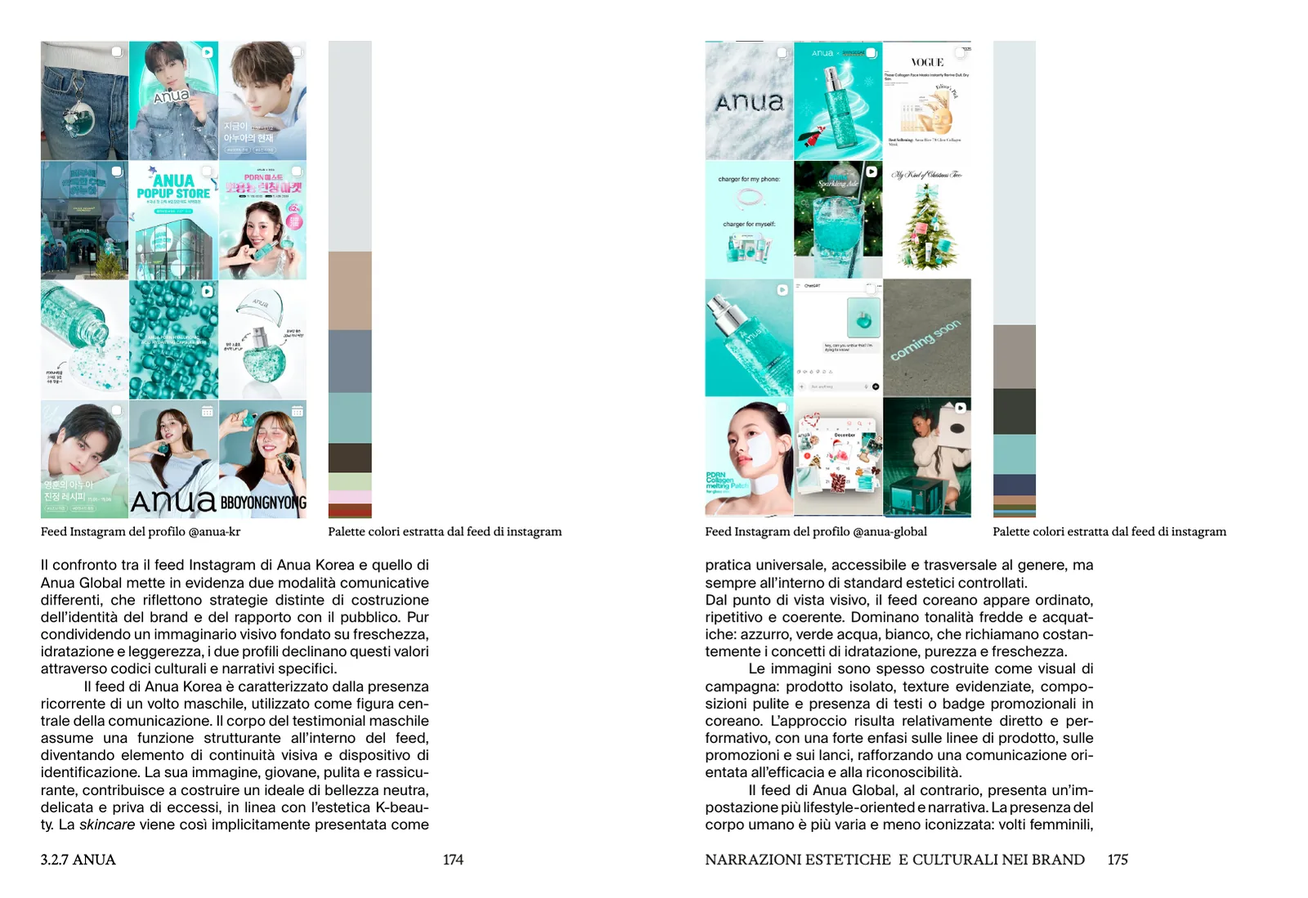
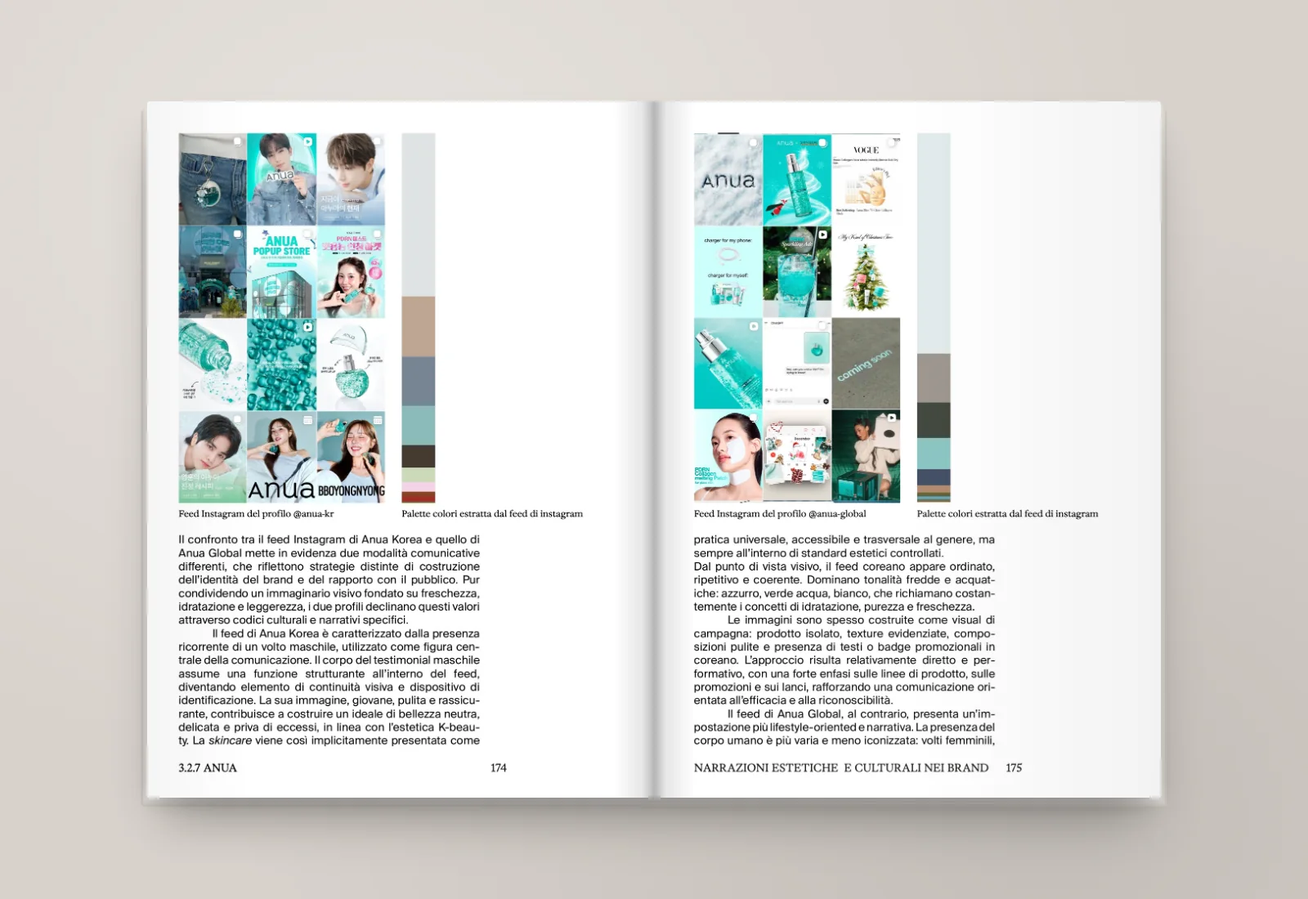
Rinomina il progetto in Framing Beauty e aggiungi i mockup della tesi
Claude-Session: https://claude.ai/code/session_01NjsWzSsnHUPn9xdM7FvZeQ

diff --git a/index.html b/index.html
@@ -26,7 +26,7 @@
   <nav class="index" aria-label="Sections">
     <ul>
       <li><a href="#about"><span class="n">About</span></a></li>
-<li><a href="#narrating-beauty"><span class="n">Narrating Beauty</span><span class="y">2026</span></a></li>
+<li><a href="#framing-beauty"><span class="n">Framing Beauty</span><span class="y">2026</span></a></li>
 <li><a href="#brand-design"><span class="n">Brand Design</span><span class="y">2025–2026</span></a></li>
 <li><a href="#social-campaigns"><span class="n">Social Campaigns</span><span class="y">2025</span></a></li>
 <li><a href="#tree-of-heaven-or-hell"><span class="n">Tree of Heaven or Hell?</span><span class="y">2025</span></a></li>
@@ -39,7 +39,7 @@
   </nav>
   <main>
 <section id="about" class="block" aria-labelledby="about-t"><div class="section-title"><h2 id="about-t">About</h2><span>Beatrice Tronconi</span></div><div class="row"><div class="inner"><h3 class="label">DOWNLOAD CV</h3><div class="content"><p><a href="Tronconi_CV.pdf?v=4" download>Download PDF</a></p></div></div></div><div class="row"><div class="inner"><h3 class="label">PROFILE</h3><div class="content"><p class="text hl"><span class="kw">Communication Designer</span> with a Master’s degree in Communication Design from <span class="kw">Politecnico di Milano</span> and experience in <span class="kw">digital communication</span>, <span class="kw">social media</span> and <span class="kw">brand design</span>. Skilled in creating <span class="kw">visual and dynamic content</span> for digital channels, developing communication concepts and ensuring consistency with <span class="kw">brand identity</span>. Curious about digital trends, audience behaviours and <span class="kw">storytelling</span>, with a strong attention to aesthetics, <span class="kw">detail</span> and visual communication. Collaborative, organised and proactive, with experience managing <span class="kw">multiple projects</span> and deadlines.</p></div></div></div><div class="row"><div class="inner"><h3 class="label">RESIDENCY</h3><div class="content"><p>Currently in Gallarate (VA), Italy, available to relocate</p></div></div></div><div class="row"><div class="inner"><h3 class="label">EXPERIENCE</h3><div class="content"><div class="entries"><div class="entry"><span>Junior brand designer</span><span>Career Service, Politecnico di Milano</span><span>11/2025 – present</span><p class="entry-text hl">Independently design and develop <span class="kw">visual content and layouts</span> for <span class="kw">digital and print</span> communication targeting <span class="kw">student and corporate audiences</span>, ensuring consistency with <span class="kw">brand identity</span> guidelines. Collaborate with <span class="kw">cross-functional teams</span> and stakeholders to translate communication briefs into effective visual solutions across different formats and channels. Take ownership of projects from <span class="kw">concept development</span> and content production through to <span class="kw">final delivery</span>, meeting deadlines and communication objectives.</p></div><div class="entry"><span>Digital graphic designer</span><span>Les Ramè agency</span><span>01/2025 – 04/2025</span><p class="entry-text hl">Produce visual content for <span class="kw">Instagram, LinkedIn and TikTok</span> for <span class="kw">multiple clients</span> and the agency’s own channels, ensuring consistent and engaging digital communication. Interpret <span class="kw">creative briefs</span> and adapt content to <span class="kw">different platforms</span>, clients and audiences, maintaining visual consistency and <span class="kw">attention to detail</span> across multiple projects.</p></div><div class="entry"><span>Social media manager</span><span>Politecnico di Milano</span><span>07/2024 – 05/2025</span><p class="entry-text hl">Manage <span class="kw">Instagram</span> accounts for <span class="kw"><a href="https://www.instagram.com/school.design.polimi/" target="_blank" rel="noopener">School of Design</a></span> and <span class="kw"><a href="https://www.instagram.com/interdependence.polimi/" target="_blank" rel="noopener">Interdependence 2025</a></span> project, planning and executing digital content to increase <span class="kw">engagement</span> and <span class="kw">audience reach</span>. Develop and publish visual and dynamic content, ensuring consistency across <span class="kw">communication channels</span> while meeting deadlines and project objectives.</p></div><div class="entry"><span>Hostess and promoter</span><span>Perfumery, Varese</span><span>2025</span><p class="entry-text hl">Promoted <span class="kw">fragrances</span> by brands such as <span class="kw">Narciso Rodriguez</span> and <span class="kw">Dolce &amp; Gabbana</span>, welcoming <span class="kw">customers</span> and presenting products in store.</p></div><div class="entry"><span>Pizzeria staff</span><span>Pizzeria, Gallarate</span><span>2020 – 2025</span><p class="entry-text hl">Assisted the <span class="kw">pizza chef</span>, served customers in the <span class="kw">dining room</span> and managed the <span class="kw">cash desk</span>.</p></div><div class="entry"><span>Museum guide</span><span>MAGA Museum</span><span>01/2017, 01/2018</span><p class="entry-text hl"><span class="kw">Guided visitors</span> and explained the <span class="kw">historical background</span> of works on display.</p></div></div></div></div></div><div class="row"><div class="inner"><h3 class="label">EXHIBITIONS</h3><div class="content"><div class="entries"><div class="entry"><span>Liked Trapped Shared</span><span>Project: <a href="#tree-of-heaven-or-hell">Tree of Heaven or Hell?</a></span><span><a href="https://liked-trapped-shared.densitydesign.org/en/projects/ailanthus" target="_blank" rel="noopener">MEET Digital Culture Center</a>, 03/2025</span></div><div class="entry"><span>ControSenso</span><span>Project: <a href="#svelare-dettagli">Svelare Dettagli</a></span><span><a href="https://www.sinestesie.it/controsenso/2024/svelare-dettagli" target="_blank" rel="noopener">Rai pubblica utilità</a>, 11/2024</span></div><div class="entry"><span>Anthropogenic Narratives</span><span>Project: <a href="#exhoil">Exhoil</a></span><span><a href="https://triennale.org/eventi/anthropogenic-narratives-experiencing-human" target="_blank" rel="noopener">Triennale Milano</a>, 03/2023</span></div></div></div></div></div><div class="row"><div class="inner"><h3 class="label">EDUCATION</h3><div class="content"><div class="entries"><div class="entry"><span>Communication Design, Master degree</span><span>Politecnico di Milano</span><span>09/2023 – 03/2026<br>Grade: 109/110</span></div><div class="entry"><span>Communication Design, Bachelor degree</span><span>Politecnico di Milano</span><span>09/2020 – 07/2023<br>Grade: 105/110</span></div><div class="entry"><span>Erasmus+ Experience, Graphic Design</span><span>Dundee University</span><span>01/2023 – 05/2023</span></div><div class="entry"><span>Scientific High School</span><span>L. Da Vinci, Gallarate</span><span>2014 – 2019</span></div></div></div></div></div><div class="row"><div class="inner"><h3 class="label">HARD SKILLS</h3><div class="content"><p>Adobe Illustrator, InDesign, Photoshop, After Effects, Premiere Pro, Lightroom</p><p>Figma, Canva, Keynote, CapCut</p><p>Microsoft Office, Excel, PowerPoint</p><p>HTML, CSS, Javascript</p></div></div></div><div class="row"><div class="inner"><h3 class="label">SOFT SKILLS</h3><div class="content"><p>Communication and public speaking</p><p>Teamwork and collaboration</p><p>Organisation and time management</p><p>Attention to detail</p><p>Adaptability</p><p>Proactivity</p><p>Customer relations</p></div></div></div><div class="row"><div class="inner"><h3 class="label">LANGUAGES</h3><div class="content"><div class="entries"><div class="entry"><span>Italian</span><span>Native</span><span></span></div><div class="entry"><span>English</span><span>TOEFL: 88/120, level C1–B2<br>First Certificate English, level B2<br>Summer School in UK</span><span>09/2022<br>06/2018<br>2018, 2015, 2014, 2013</span></div><div class="entry"><span>Japanese</span><span>Basics</span><span></span></div></div></div></div></div><div class="row"><div class="inner"><h3 class="label">PERSONAL INTERESTS</h3><div class="content"><p>Art, Photography, Travel, Make-up, Cinema, Music, Books</p></div></div></div></section>
-<section id="narrating-beauty" class="block"><div class="section-title"><h2>Narrating Beauty</h2><span>2026</span></div><div class="row"><div class="inner"><h3 class="label">CATEGORY</h3><div class="content"><p>Master’s thesis, research and web design</p></div></div></div><div class="row"><div class="inner"><h3 class="label">SUPERVISOR</h3><div class="content"><p>Francesca Piredda</p></div></div></div><div class="row"><div class="inner"><h3 class="label">ROLE</h3><div class="content"><p class="text">Research, semiotic and visual analysis, case study analysis, colour palette extraction, editorial design, data visualization, web design and development.</p></div></div></div><div class="row"><div class="inner"><h3 class="label">LINK</h3><div class="content"><p><a href="skin-code-branding/" target="_blank" rel="noopener">SKIN CODE BRANDING</a></p></div></div></div><div class="row"><div class="inner"><h3 class="label">DESCRIPTION</h3><div class="content"><p class="text hl">A Master’s thesis in Communication Design that explores how <span class="kw">beauty brands</span> build and adapt their idea of beauty between <span class="kw">Asia and the West</span>. Starting from beauty as a <span class="kw">cultural construction</span>, the research analyses the <span class="kw">Instagram feeds</span> of <span class="kw">14 brands</span>, from K-beauty and J-beauty to Western heritage and digital-native labels, looking at colour palettes, the representation of <span class="kw">skin and body</span>, the role of the product and the <span class="kw">tone of voice</span>. The comparison between <span class="kw">local and global feeds</span> of the same brands shows a <span class="kw">hybrid model</span>: global in its visual standards, local in its symbolic language. The research is supported by <span class="kw">Skin Code Branding</span>, an interactive atlas that maps the brands, their palettes and their feeds.</p></div></div></div><div class="row"><div class="inner"><h3 class="label">GALLERY</h3><div class="content"><div class="gallery"><figure class="shot" style="--r:1.4559"><img src="img/nb5.webp" width="1600" height="1099" alt="Spread comparing the Korean and European Instagram feeds of Laneige with their extracted colour palettes" loading="lazy" decoding="async"><figcaption>Local and global feeds compared, with extracted palettes</figcaption></figure><figure class="shot" style="--r:1.6977"><img src="img/nb7.webp" width="1421" height="837" alt="Map of 14 beauty brands on two axes: product narrative and body representation" loading="lazy" decoding="async"><figcaption>Skin Code Branding, map of the 14 brands</figcaption></figure><figure class="shot" style="--r:1.4559"><img src="img/nb2.webp" width="1600" height="1099" alt="Spread on beauty as a cultural construction, with paintings by Rubens, Titian and Velázquez" loading="lazy" decoding="async"><figcaption>Beauty as a cultural and semiotic construction</figcaption></figure><figure class="shot" style="--r:1.4559"><img src="img/nb3.webp" width="1600" height="1099" alt="Spread with a collage of magazine covers and a beauty advertising campaign" loading="lazy" decoding="async"><figcaption>Cultural codes in beauty advertising</figcaption></figure><figure class="shot" style="--r:1.4559"><img src="img/nb4.webp" width="1600" height="1099" alt="Spread opening the Laneige case study with a composition of brand posts" loading="lazy" decoding="async"><figcaption>Case study opening, Laneige</figcaption></figure><figure class="shot" style="--r:1.4559"><img src="img/nb6.webp" width="1600" height="1099" alt="Spread comparing the Korean and global Instagram feeds of Anua" loading="lazy" decoding="async"><figcaption>Local and global feeds, Anua</figcaption></figure><figure class="shot" style="--r:1.3743"><img src="img/nb8.webp" width="1421" height="1034" alt="Side-by-side local and global feeds of Laneige with colour palettes" loading="lazy" decoding="async"><figcaption>Skin Code Branding, local and global feeds</figcaption></figure><figure class="shot" style="--r:1.4222"><img src="img/nb9.webp" width="1600" height="1125" alt="Brand card for Tatcha with palette, feed and analysis" loading="lazy" decoding="async"><figcaption>Skin Code Branding, brand card</figcaption></figure><figure class="shot" style="--r:1.4559"><img src="img/nb1.webp" width="1600" height="1099" alt="Title page and table of contents of the thesis" loading="lazy" decoding="async"><figcaption>Thesis, title page and contents</figcaption></figure></div></div></div></div></section>
+<section id="framing-beauty" class="block"><div class="section-title"><h2>Framing Beauty</h2><span>2026</span></div><div class="row"><div class="inner"><h3 class="label">CATEGORY</h3><div class="content"><p>Master’s thesis, research and web design</p></div></div></div><div class="row"><div class="inner"><h3 class="label">SUPERVISOR</h3><div class="content"><p>Francesca Piredda</p></div></div></div><div class="row"><div class="inner"><h3 class="label">ROLE</h3><div class="content"><p class="text">Research, semiotic and visual analysis, case study analysis, colour palette extraction, editorial design, data visualization, web design and development.</p></div></div></div><div class="row"><div class="inner"><h3 class="label">LINK</h3><div class="content"><p><a href="skin-code-branding/" target="_blank" rel="noopener">SKIN CODE BRANDING</a></p></div></div></div><div class="row"><div class="inner"><h3 class="label">DESCRIPTION</h3><div class="content"><p class="text hl"><span class="kw">Framing Beauty</span> is a Master’s thesis in Communication Design that explores how <span class="kw">beauty brands</span> build and adapt their idea of beauty between <span class="kw">Asia and the West</span>. Starting from beauty as a <span class="kw">cultural construction</span>, the research analyses the <span class="kw">Instagram feeds</span> of <span class="kw">14 brands</span>, from K-beauty and J-beauty to Western heritage and digital-native labels, looking at colour palettes, the representation of <span class="kw">skin and body</span>, the role of the product and the <span class="kw">tone of voice</span>. The comparison between <span class="kw">local and global feeds</span> of the same brands shows a <span class="kw">hybrid model</span>: global in its visual standards, local in its symbolic language. The research is supported by <span class="kw">Skin Code Branding</span>, an interactive atlas that maps the brands, their palettes and their feeds.</p></div></div></div><div class="row"><div class="inner"><h3 class="label">GALLERY</h3><div class="content"><div class="gallery"><figure class="shot" style="--r:1.4545"><img src="img/nb1.webp" width="1600" height="1100" alt="Mockup of the printed thesis cover, Framing Beauty" loading="lazy" decoding="async"><figcaption>Thesis cover</figcaption></figure><figure class="shot" style="--r:1.4545"><img src="img/nb5.webp" width="1600" height="1100" alt="Mockup of an open spread comparing the Korean and European Instagram feeds of Laneige with their extracted colour palettes" loading="lazy" decoding="async"><figcaption>Local and global feeds compared, with extracted palettes</figcaption></figure><figure class="shot" style="--r:1.6977"><img src="img/nb7.webp" width="1421" height="837" alt="Map of 14 beauty brands on two axes: product narrative and body representation" loading="lazy" decoding="async"><figcaption>Skin Code Branding, map of the 14 brands</figcaption></figure><figure class="shot" style="--r:1.4545"><img src="img/nb2.webp" width="1600" height="1100" alt="Mockup of an open spread on beauty as a cultural construction, with paintings by Rubens, Titian and Velázquez" loading="lazy" decoding="async"><figcaption>Beauty as a cultural and semiotic construction</figcaption></figure><figure class="shot" style="--r:1.4545"><img src="img/nb4.webp" width="1600" height="1100" alt="Mockup of the open thesis in perspective, on the spread opening the Laneige case study" loading="lazy" decoding="async"><figcaption>Case study opening, Laneige</figcaption></figure><figure class="shot" style="--r:1.4545"><img src="img/nb3.webp" width="1600" height="1100" alt="Mockup of the open thesis in perspective, on a spread about a beauty advertising campaign" loading="lazy" decoding="async"><figcaption>Cultural codes in beauty advertising</figcaption></figure><figure class="shot" style="--r:1.4545"><img src="img/nb6.webp" width="1600" height="1100" alt="Mockup of an open spread comparing the Korean and global Instagram feeds of Anua" loading="lazy" decoding="async"><figcaption>Local and global feeds, Anua</figcaption></figure><figure class="shot" style="--r:1.3743"><img src="img/nb8.webp" width="1421" height="1034" alt="Side-by-side local and global feeds of Laneige with colour palettes" loading="lazy" decoding="async"><figcaption>Skin Code Branding, local and global feeds</figcaption></figure><figure class="shot" style="--r:1.4222"><img src="img/nb9.webp" width="1600" height="1125" alt="Brand card for Tatcha with palette, feed and analysis" loading="lazy" decoding="async"><figcaption>Skin Code Branding, brand card</figcaption></figure></div></div></div></div></section>
 <section id="brand-design" class="block"><div class="section-title"><h2>Brand Design</h2><span>2025–2026</span></div><div class="row"><div class="inner"><h3 class="label">CATEGORY</h3><div class="content"><p>Digital and editorial design</p></div></div></div><div class="row"><div class="inner"><h3 class="label">ROLE</h3><div class="content"><p class="text hl"><span class="kw">Junior brand designer</span>. Independently design and develop <span class="kw">visual content and layouts</span> for <span class="kw">digital and print</span> communication targeting <span class="kw">student and corporate audiences</span>, ensuring consistency with <span class="kw">brand identity</span> guidelines. Collaborate with <span class="kw">cross-functional teams</span> and stakeholders to translate communication briefs into effective visual solutions across different formats and channels. Take ownership of projects from <span class="kw">concept development</span> and content production through to <span class="kw">final delivery</span>, meeting deadlines and communication objectives.</p></div></div></div><div class="row"><div class="inner"><h3 class="label">GALLERY</h3><div class="content"><div class="gallery"><figure class="shot" style="--r:1.3333"><img src="img/po3.webp" width="1600" height="1200" alt="Open student guide booklet with a laptop showing the Career Service portal" loading="lazy" decoding="async"><figcaption>Led the development of the student guide booklet, coordinating the project from initial concept to final execution</figcaption></figure><figure class="shot" style="--r:1.3333"><img src="img/po4.webp" width="1600" height="1200" alt="Open student guide spread with a table of contents" loading="lazy" decoding="async"><figcaption>Layout and composition of the student guide</figcaption></figure><figure class="shot" style="--r:0.8000"><img src="img/po1.webp" width="1280" height="1600" alt="Instagram post asking students if they are really using the new Career Service portal" loading="lazy" decoding="async"><figcaption>Instagram post that promotes the new Career Service portal for students</figcaption></figure><figure class="shot" style="--r:0.8000"><img src="img/po2.webp" width="1280" height="1600" alt="LinkedIn post explaining that tags turn a generic job ad into an effective one" loading="lazy" decoding="async"><figcaption>LinkedIn post that promotes the new Career Service portal for companies</figcaption></figure></div></div></div></div></section>
 <section id="social-campaigns" class="block"><div class="section-title"><h2>Social Campaigns</h2><span>2025</span></div><div class="row"><div class="inner"><h3 class="label">CATEGORY</h3><div class="content"><p>Social media design</p></div></div></div><div class="row"><div class="inner"><h3 class="label">ROLE</h3><div class="content"><p class="text hl"><span class="kw">Digital graphic designer</span>. Produce visual content for <span class="kw">Instagram, LinkedIn and TikTok</span> for <span class="kw">multiple clients</span> and the agency’s own channels, ensuring consistent and engaging digital communication. Interpret <span class="kw">creative briefs</span> and adapt content to <span class="kw">different platforms</span>, clients and audiences, maintaining visual consistency and <span class="kw">attention to detail</span> across multiple projects.</p></div></div></div><div class="row"><div class="inner"><h3 class="label">GALLERY</h3><div class="content"><div class="gallery"><figure class="shot" style="--r:0.8000"><img src="img/lr5.webp" width="1280" height="1600" alt="Activewear collection advertisement with a model in an orange and brown bodysuit" loading="lazy" decoding="async"><figcaption>Instagram advertisement for an italian beachwear brand</figcaption></figure><figure class="shot" style="--r:0.5625"><img src="img/lr1.webp" width="900" height="1600" alt="Instagram story of a couple kissing on a boat in front of a lakeside villa" loading="lazy" decoding="async"><figcaption>Layout of Instagram stories for a wedding planner</figcaption></figure><figure class="shot" style="--r:0.5625"><img src="img/lr2.webp" width="900" height="1600" alt="Instagram story listing the wedding features: ceremony, boat ride, venue, music" loading="lazy" decoding="async"></figure><figure class="shot" style="--r:1.7778"><img src="img/lr6.webp" width="1600" height="900" alt="Stardust collection advertisement with two models in swimwear on a beach" loading="lazy" decoding="async"><figcaption>Instagram advertisement for an italian beachwear brand</figcaption></figure><figure class="shot" style="--r:0.5625"><img src="img/lr3.webp" width="900" height="1600" alt="Instagram story collage of instant photos from a wedding" loading="lazy" decoding="async"></figure><figure class="shot" style="--r:0.5625"><img src="img/lr4.webp" width="900" height="1600" alt="Instagram story with wedding title lettering over a flower centerpiece" loading="lazy" decoding="async"></figure></div></div></div></div></section>
 <section id="tree-of-heaven-or-hell" class="block"><div class="section-title"><h2>Tree of Heaven or Hell?</h2><span>2025</span></div><div class="row"><div class="inner"><h3 class="label">CATEGORY</h3><div class="content"><p>Data Visualization and exhibition design</p></div></div></div><div class="row"><div class="inner"><h3 class="label">TEAM</h3><div class="content"><p>Alice D&#x27;Aiuto</p><p>Alice Dezio</p><p>Eleonora Galliani</p><p>Giulia Polimeno</p><p>Costanza Turi</p><p>Ilaria Urgesi</p></div></div></div><div class="row"><div class="inner"><h3 class="label">ROLE</h3><div class="content"><p class="text">Research, data analysis, editorial/system thinking, exhibition design, multimedia storytelling, visualization of online discourse, artifact design.</p></div></div></div><div class="row"><div class="inner"><h3 class="label">LINK</h3><div class="content"><p><a href="https://liked-trapped-shared.densitydesign.org/en/projects/ailanthus" target="_blank" rel="noopener">LIKED TRAPPED SHARED</a></p></div></div></div><div class="row"><div class="inner"><h3 class="label">DESCRIPTION</h3><div class="content"><p class="text hl"><span class="kw">Ailanthus altissima</span>, known as the <span class="kw">Tree of Heaven</span>, is a species native to China and introduced in Europe in the 18th century. While appreciated for its extraordinary resilience, it is also feared for its highly <span class="kw">invasive</span> nature. &quot;Tree of Heaven or Hell?&quot; explores this debate by analyzing <span class="kw">76 YouTube videos</span> and <span class="kw">925 comments</span>, revealing how public discussions around Ailanthus reflect broader power dynamics between <span class="kw">humans and nature</span>. The project guides the user through three artifacts: a <span class="kw">supercut</span> of videos, a scrolling <span class="kw">LED display</span> that visualizes comment polarization, and a <span class="kw">catalog of eradication methods</span>.</p></div></div></div><div class="row"><div class="inner"><h3 class="label">GALLERY</h3><div class="content"><div class="gallery"><figure class="shot" style="--r:1.0000"><img src="img/ai1.webp" width="1600" height="1600" alt="Exhibition table with headphones and a screen playing the video supercut" loading="lazy" decoding="async"><figcaption>Supercut video, Exhibition</figcaption></figure><figure class="shot" style="--r:1.0000"><img src="img/ai2.gif" width="500" height="500" alt="Animated black and white illustration of a beetle" loading="lazy" decoding="async"><figcaption>Objects used to eliminate ailanthus</figcaption></figure><figure class="shot" style="--r:1.0000"><img src="img/ai3.webp" width="1600" height="1600" alt="Hands leafing through a printed catalog of eradication methods" loading="lazy" decoding="async"><figcaption>Book of elimination techniques instructions</figcaption></figure><figure class="shot" style="--r:3.1487"><img src="img/ai4.gif" width="1080" height="343" alt="Animated LED display scrolling a user comment" class="small" loading="lazy" decoding="async"><figcaption>Divergent comments, LED</figcaption></figure><figure class="shot" style="--r:1.0000"><img src="img/ai5.webp" width="1600" height="1600" alt="Exhibition table with white 3D-printed tools and machines connected by lines" loading="lazy" decoding="async"><figcaption>Net of objects used to eliminate ailanthus</figcaption></figure><figure class="shot" style="--r:1.8100"><img src="img/ai7.webp" width="1600" height="884" alt="Network diagram with a numbered index of eradication objects" loading="lazy" decoding="async"><figcaption>Net and index of the objects used to eliminate ailanthus</figcaption></figure><figure class="shot" style="--r:1.4197"><img src="img/ai8.webp" width="1600" height="1127" alt="Collage of frames from the analyzed YouTube videos" loading="lazy" decoding="async"><figcaption>Supercut video frames</figcaption></figure><figure class="shot" style="--r:1.7505"><img src="img/ai6.webp" width="1600" height="914" alt="Typographic wall of transcribed user comments" loading="lazy" decoding="async"><figcaption>Divergent comments</figcaption></figure></div></div></div></div></section>

diff --git a/framingbeauty.html b/framingbeauty.html
@@ -1,0 +1,1 @@
+<!DOCTYPE html><html lang="en"><head><meta charset="UTF-8"><title>Beatrice Tronconi</title><link rel="canonical" href="https://beatricetronconi.github.io/#framing-beauty"><meta http-equiv="refresh" content="0; url=index.html#framing-beauty"><meta name="robots" content="noindex"></head><body><a href="index.html#framing-beauty">Go to the portfolio</a></body></html>
